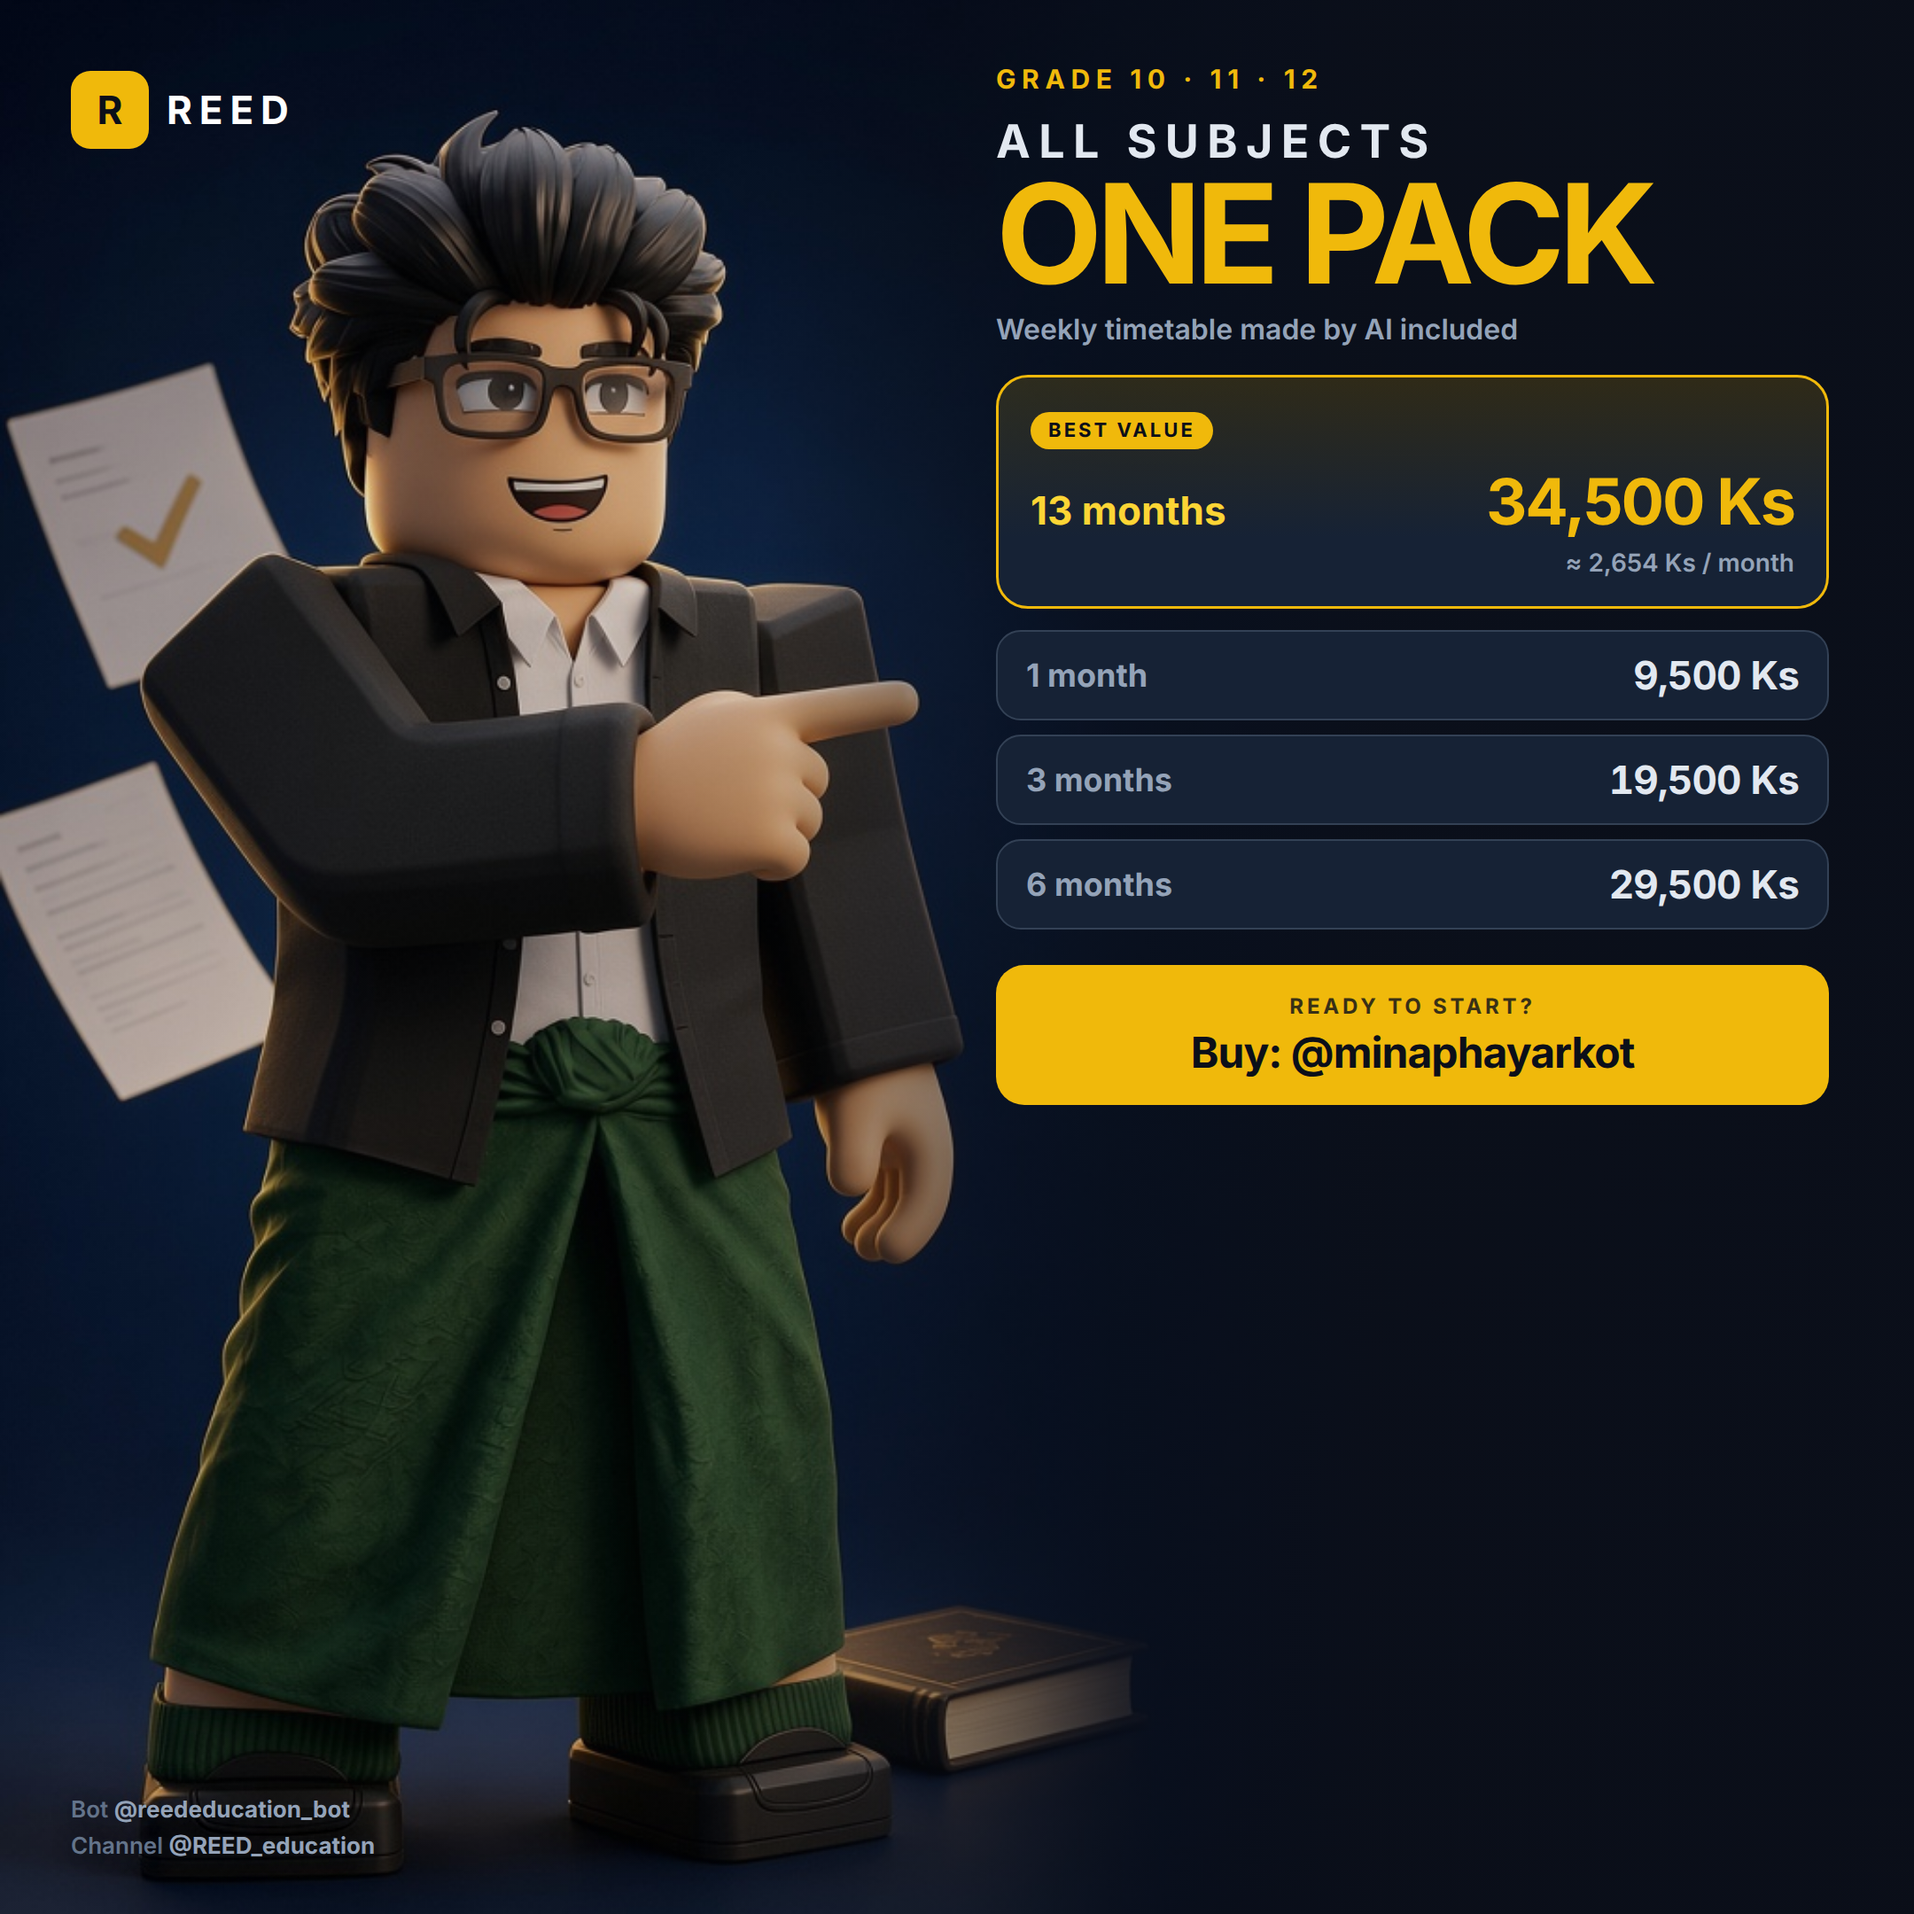
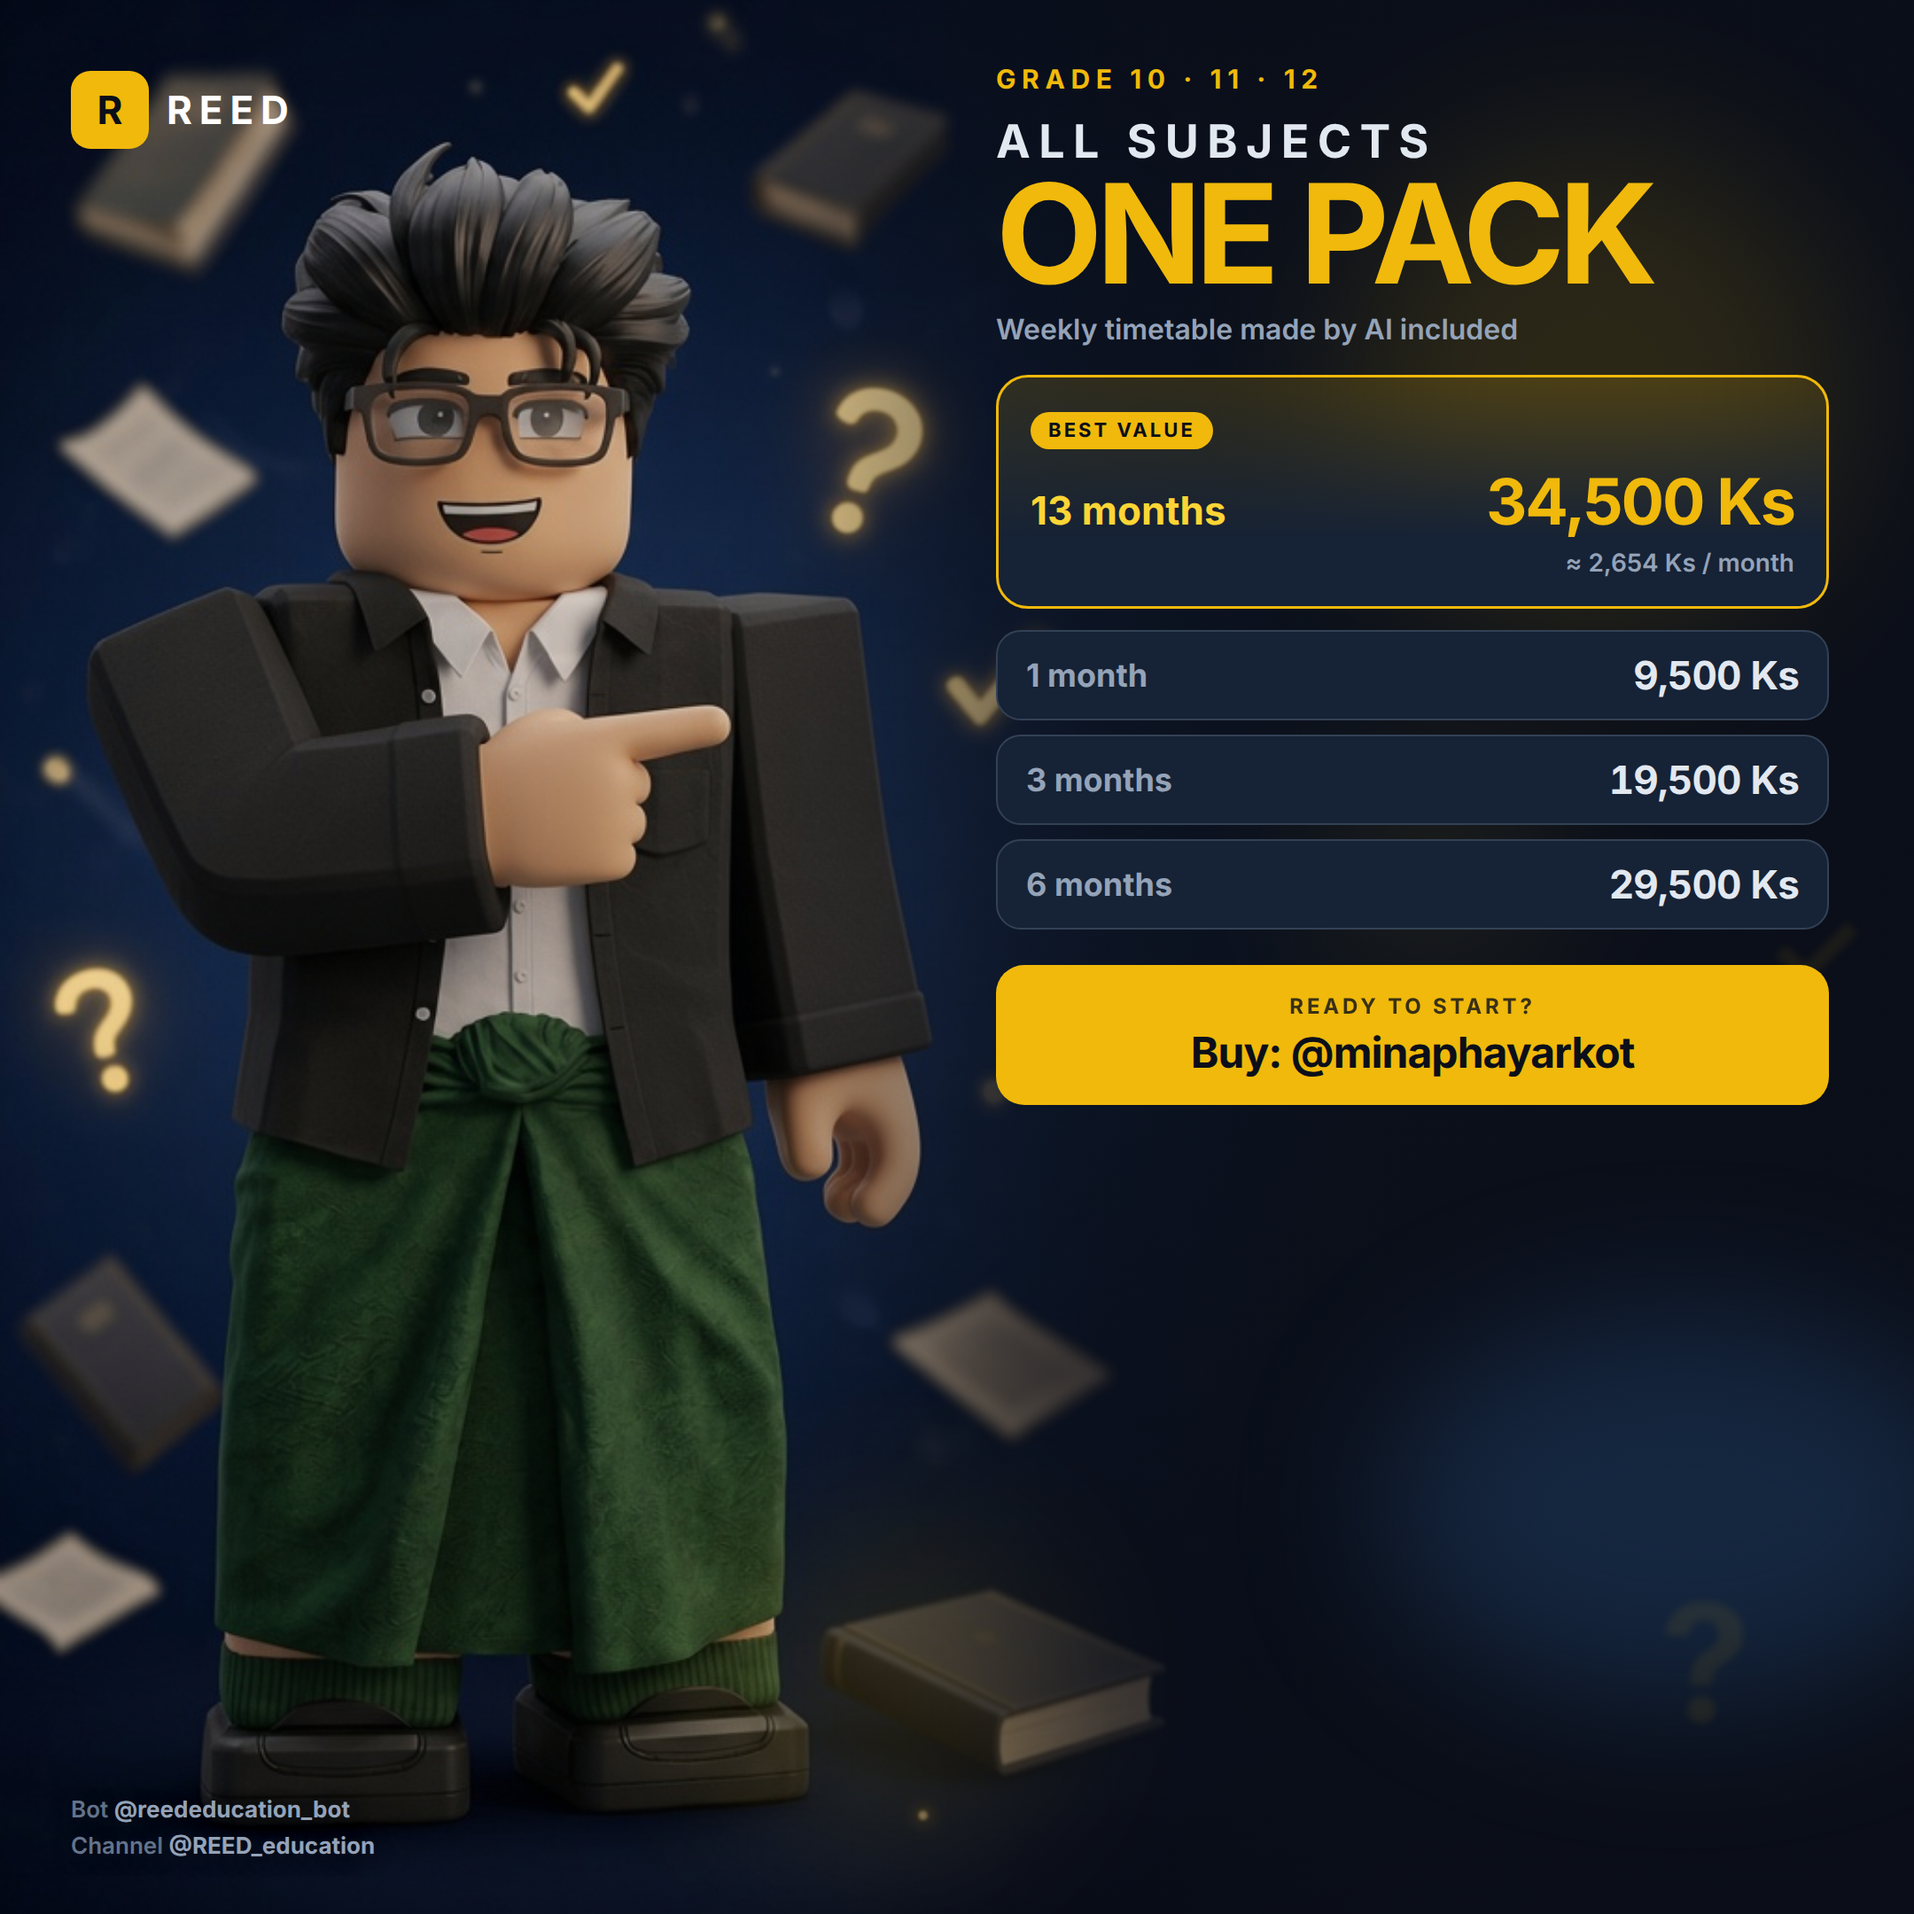
Turn the ad mascot toward camera and fill empty navy. (#144)
Add soft blurred books, marks, and low-opacity gold so the blank
areas are not empty.

diff --git a/ads/reed-price-poster.html b/ads/reed-price-poster.html
@@ -18,8 +18,36 @@
       position: absolute;
       inset: 0;
       background:
-        linear-gradient(90deg, rgba(11,15,25,0.08) 0%, rgba(11,15,25,0.12) 40%, rgba(11,15,25,0.72) 58%, rgba(11,15,25,0.94) 72%);
+        linear-gradient(90deg, rgba(11,15,25,0.04) 0%, rgba(11,15,25,0.1) 40%, rgba(11,15,25,0.7) 58%, rgba(11,15,25,0.92) 74%);
     }
+    .fx {
+      position: absolute;
+      inset: 0;
+      z-index: 1;
+      pointer-events: none;
+      overflow: hidden;
+    }
+    .fx i {
+      position: absolute;
+      border-radius: 50%;
+      filter: blur(48px);
+      opacity: 0.22;
+      background: #F0B90B;
+    }
+    .fx .a { width: 280px; height: 280px; right: 40px; top: 80px; opacity: 0.14; }
+    .fx .b { width: 340px; height: 220px; right: -40px; bottom: 120px; background: #1E3A5F; opacity: 0.55; filter: blur(40px); }
+    .fx .c { width: 180px; height: 180px; left: 38%; bottom: 40px; opacity: 0.12; }
+    .fx .d { width: 120px; height: 120px; right: 210px; top: 430px; background: #FCD535; opacity: 0.1; }
+    .bookish {
+      position: absolute;
+      color: #F0B90B;
+      font-size: 72px;
+      font-weight: 800;
+      opacity: 0.08;
+      filter: blur(2px);
+    }
+    .bookish.q { right: 92px; bottom: 86px; font-size: 92px; }
+    .bookish.v { right: 28px; top: 46%; font-size: 64px; opacity: 0.07; }
     .brand {
       position: absolute;
       top: 40px;
@@ -182,6 +210,11 @@
 <body>
   <div class="art">
     <div class="scrim"></div>
+    <div class="fx" aria-hidden="true">
+      <i class="a"></i><i class="b"></i><i class="c"></i><i class="d"></i>
+      <span class="bookish q">?</span>
+      <span class="bookish v">✓</span>
+    </div>
     <div class="brand"><div class="mark">R</div><b>REED</b></div>
     <div class="copy">
       <p class="kicker">Grade 10 · 11 · 12</p>
